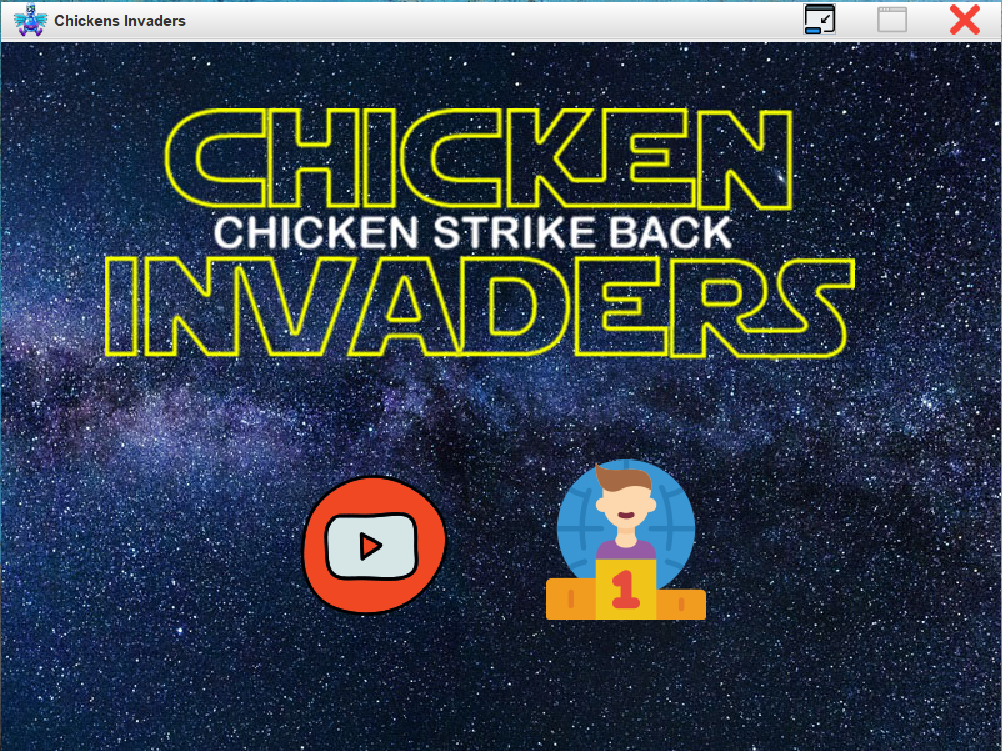
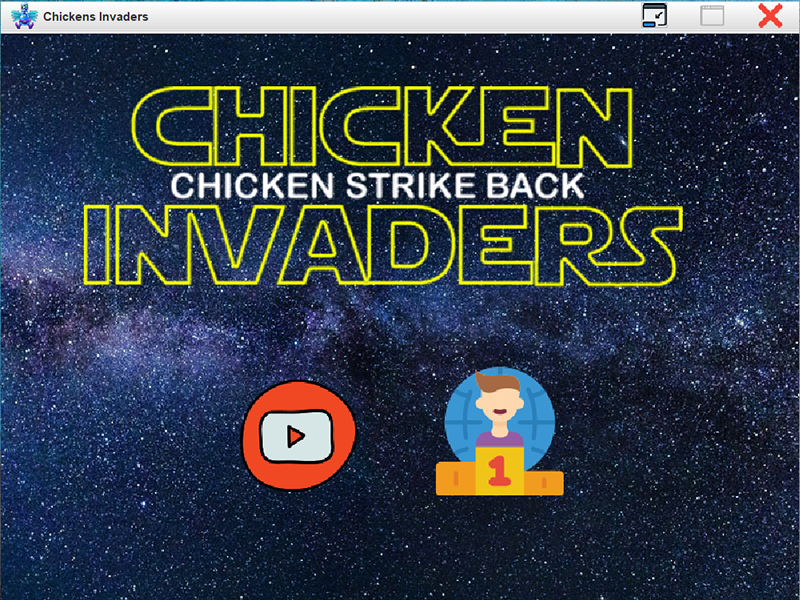
Changed photos

Changed region(s): [[0.0312, 0.0, 0.1875, 0.06], [0.7812, 0.0, 0.8438, 0.06]]

diff --git a/portfolio-details-chicken.html b/portfolio-details-chicken.html
@@ -54,15 +54,15 @@
               <div class="swiper-wrapper align-items-center">
 
                 <div class="swiper-slide">
-                  <img src="assets/img/portfolio/portfolio-1.jpg" alt="">
+                  <img src="assets/img/portfolio/Chicken Invaders.png" alt="">
                 </div>
 
                 <div class="swiper-slide">
-                  <img src="assets/img/portfolio/portfolio-2.jpg" alt="">
+                  <img src="assets/img/portfolio/chcicken screen.png" alt="">
                 </div>
 
                 <div class="swiper-slide">
-                  <img src="assets/img/portfolio/portfolio-3.jpg" alt="">
+                  <img src="assets/img/portfolio/chcicken screen 1.png" alt="">
                 </div>
 
               </div>
